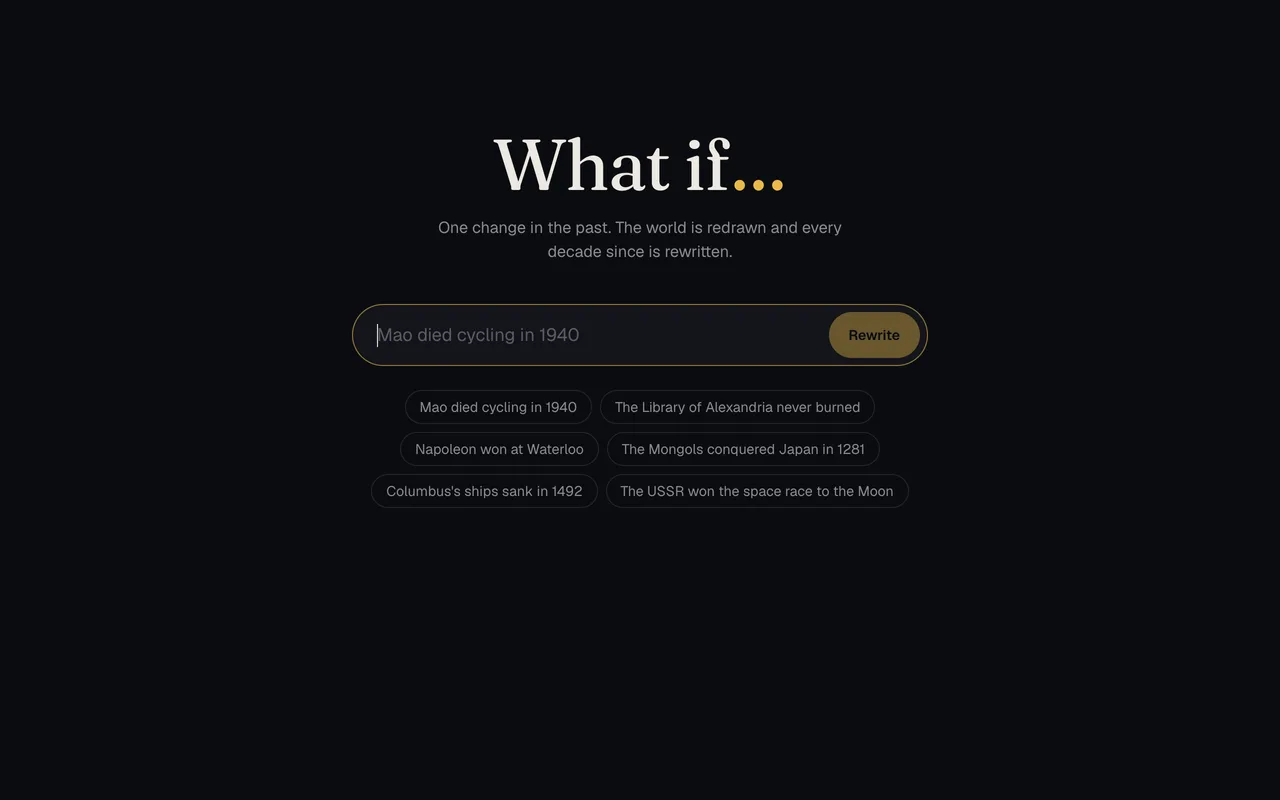
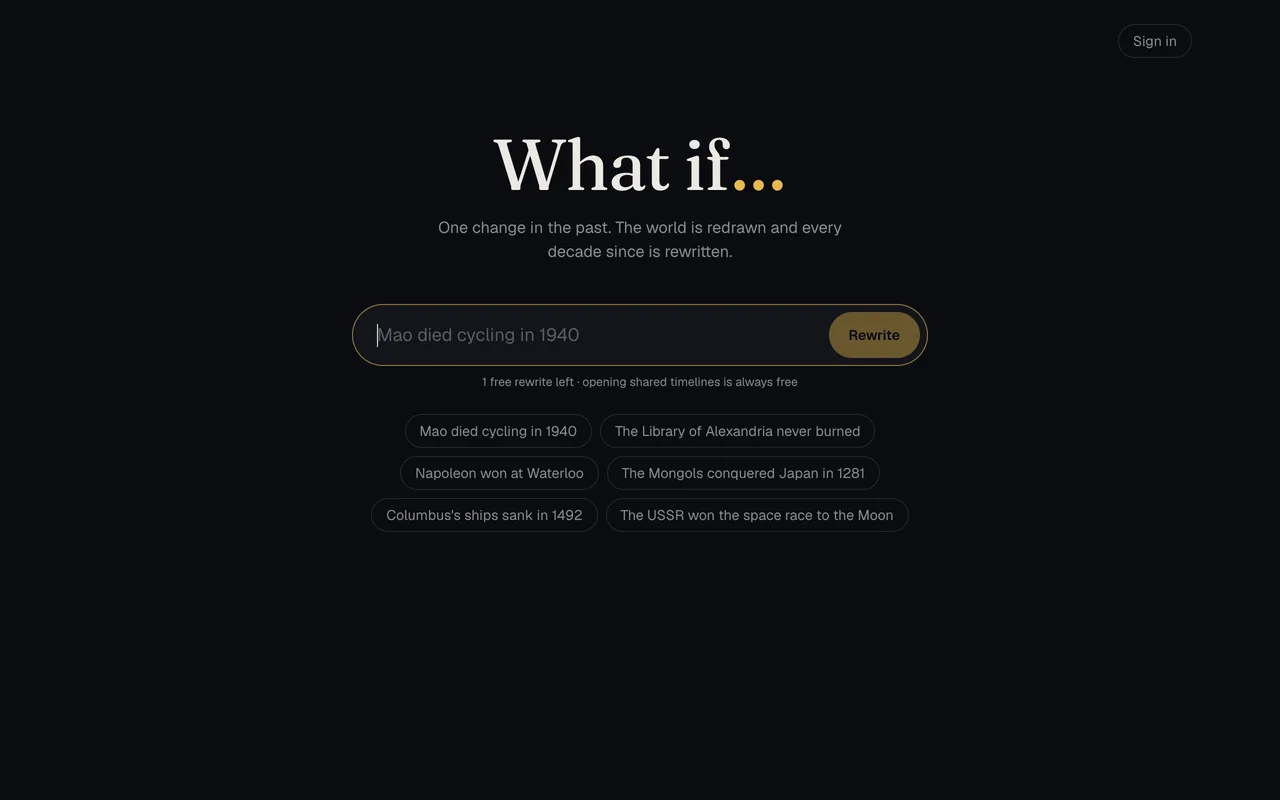
chore(projects): move What If to uchronia.app

Changed region(s): [[0.3125, 0.4688, 0.6875, 0.6562], [0.875, 0.0312, 0.9062, 0.0625]]

diff --git a/src/data/projects.ts b/src/data/projects.ts
@@ -35,7 +35,7 @@ export const projects: Project[] = [
       "Change one moment in the past, like Napoleon winning at Waterloo or the Library of Alexandria never burning, and What If rewrites every decade since. You read how the world would have turned out, era by era.",
     category: "Culture",
     color: "#a16207",
-    url: "https://althistory-eosin.vercel.app",
+    url: "https://uchronia.app",
   },
   {
     slug: "cytisinio",
